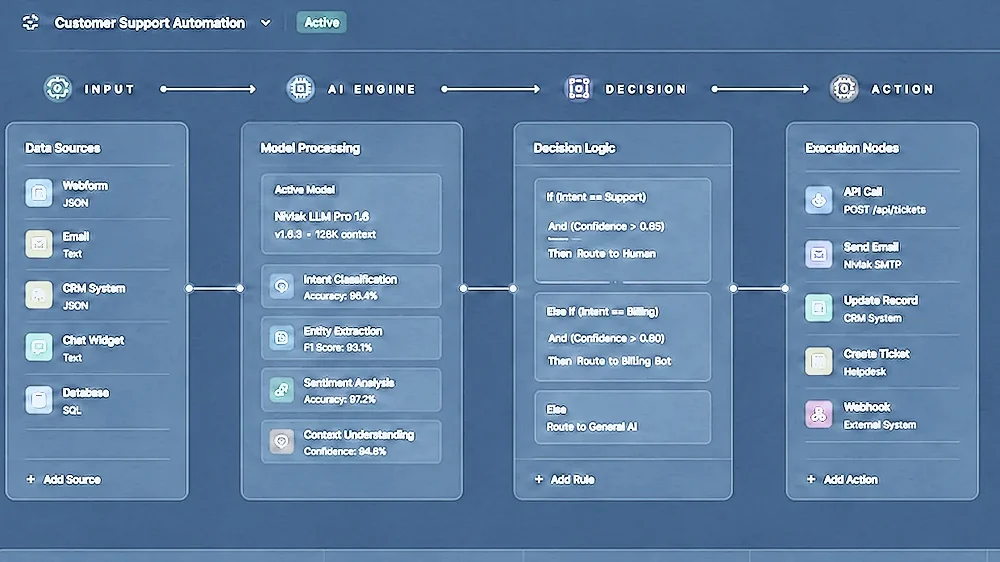
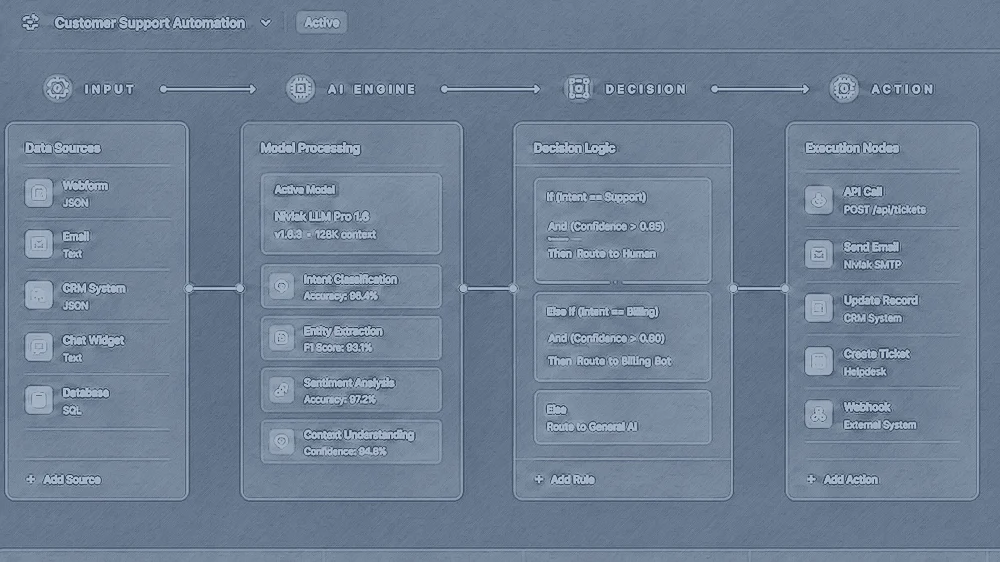
Redraw the plates as graphite pencil drawings in the book's ink
Line, diagonal hatching in the shadows and the photo's own shading,
multiplied on white and mapped to navy ink on blue-grey paper. CLAHE first
so the dark renders and night desks keep their detail; still drawn at
display size, key handled before the resize.

Claude-Session: https://claude.ai/code/session_01FYg2SGhRfsPbFS8qQzcyRd

diff --git a/CLAUDE.md b/CLAUDE.md
@@ -1286,42 +1286,42 @@ spread 02. Like the frame sources, the renders it reads are **not in the repo**
 — it expects them at the repo root. Its header explains the keying, the seeds
 and the tone; read it before changing any of the three.
 
-`tools/build-pencil-plates.sh` draws pencil lines over all fifteen
-photographic plates — 02's five services, 03's six process pictures and 04's
-four interfaces. It is a POST-PASS over `apps/web/public`, not a flag on the
-other three scripts, because their sources are not in this repository.
+`tools/build-pencil-plates.sh` redraws all fifteen photographic plates — 02's
+five services, 03's six process pictures and 04's four interfaces — as graphite
+pencil drawings printed in the book's ink. It is a POST-PASS over
+`apps/web/public`, because the other three scripts' sources are not in this
+repository.
 
-- **It is not idempotent, and its input is 445aec1, not HEAD.** Inking an inked
-  plate doubles every stroke. Before a run:
+- **It is not idempotent, and its input is 445aec1, not HEAD.** Drawing a
+  drawing doubles every stroke. Before a run:
   `git checkout 445aec1 -- apps/web/public/services apps/web/public/process apps/web/public/work`.
-- **The plate keeps its own tone; the pencil is a multiply layer on top.** Seven
-  revisions REBUILT each plate out of a sketch — a dodge drawing screened over
-  grey and recoloured between two hand-picked greys — and every one was rejected
-  as blurred, washed out or not visible. The rebuild threw away the toning the
-  three build scripts had measured against the navy page. What was asked for,
-  in the end, was "the old theme but only the pencil sketch design": the toned
-  plate exactly, with graphite lines following its edges. White in the line
-  layer multiplies to nothing, so only the strokes print.
-- **`INK=35` is the darkest a stroke may go** (`+level 35%,100%` on the line
-  layer). 55 is a faint trace at 122px; 0 is a black outline that turns 03's
-  desks into woodcuts.
-- **Drawn at the size it is SHOWN — that was the blur.** 03's plates are
-  1240px files printed at 122px (10×; 18× at a 443px window), 02's 900 at 236,
-  04's 1240 at 431, and a one-pixel line averaged over a 10×10 block is grey
-  haze. Each family is resized FIRST (`TARGET_process=320`,
-  `TARGET_services=620`, `TARGET_work=1000`, about 2.5× display) and inked
-  after, with one fixed `BLUR=1.1`. `-kuwahara`, `-posterize` and edge-crushing
-  `-level` were all tried on the way and are worse; see `git log`.
+- **A pencil drawing is three layers and every earlier revision missed one.**
+  LINE (a colour-dodge sketch), HATCH (diagonal motion-blurred noise, laid only
+  where the photo is dark) and SHADE (the photo's own luma, lifted), multiplied
+  on white and then mapped `INK #1a2d47` → `PAPER #c3d1e0`. Line alone was
+  unreadable at 122px; line screened over a recoloured tone read as embossed
+  grey slabs; line multiplied over the untouched photo read as a photo with
+  outlines. The hatching is what makes it read as DRAWN.
+- **Blue-grey paper, not white.** A white-paper version was rejected as a pale
+  slab on navy stock. `PAPER` stays under the silver type (0.81 vs 0.895).
+  The first cut used `#0f1c30`/`#aabdd2` and printed every dark plate dim.
+- **`-clahe` before drawing.** 02's renders and 03's night desks are mostly
+  dark; a global `-auto-level` leaves their detail in the bottom fifth and the
+  hatching buries it. `HATCH_GATE=20` keeps hatching to the deepest shadows.
+- **Drawn at the size it is SHOWN — that was the blur.** 03's plates are 1240px
+  files printed at 122px (10×; 18× at a 443px window), 02's 900 at 236, 04's
+  1240 at 431. Each family is resized FIRST (`TARGET_process=320`,
+  `TARGET_services=620`, `TARGET_work=1000`, ~2.5× display) and drawn after.
+  `-kuwahara`, `-posterize` and edge-crushing `-level` were tried and are worse.
 - **A keyed plate loses its key BEFORE the resize.** Resizing srgba zeroes the
-  colour under every transparent pixel; 02's five once came out as flat silver
-  silhouettes (colour std 0.004). Colour and key are resized separately and the
-  key goes back on; the script refuses a changed channel count.
-- **The audit**: median above a page luma sampled off `frame-091` (0.2036) —
-  multiply only darkens, so this is the check that can now fail, and 02's
-  keyed renders sit closest (0.22–0.27) — and a std of at least 0.05, because a
-  blank plate passes the median test.
+  colour under transparent pixels; 02's five once came out as flat silhouettes.
+  Colour and key are resized separately; a changed channel count is refused.
+- **The hatch noise is seeded** (`-seed 7`), so rebuilds are comparable.
+- **The audit**: median above the page luma sampled off `frame-091` (0.2036)
+  — `INK` is darker than the page, so a mostly-ink plate is a hole — and a std
+  of at least 0.05, because a blank plate passes the median test.
 - **The redactions survive.** 04's blurred boxes over invented client names are
-  baked into the input, and a blurred region has no edges to ink.
+  baked into the input, and a blurred region has no edges to draw.
 
 **What it does not touch, and why.** `plate-telegraphy.webp` is already an 1876
 patent drawing; `perspectives/column.webp` is a luminance MASK rather than a
